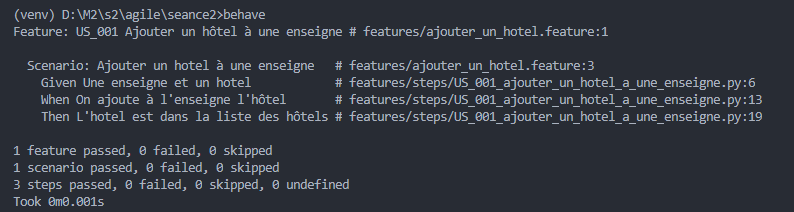
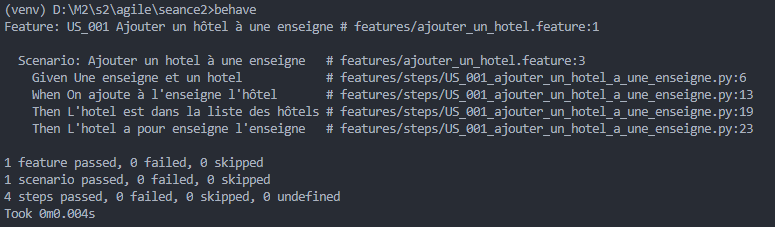
Updated one functionnal test

Changed region(s): [[0.0, 0.2264, 0.991, 0.5943], [0.0, 0.0, 0.7742, 0.1981], [0.0, 0.6792, 0.4645, 0.9906]]

diff --git a/features/steps/US_001_ajouter_un_hotel_a_une_enseigne.py b/features/steps/US_001_ajouter_un_hotel_a_une_enseigne.py
@@ -19,4 +19,8 @@ def on_ajoute_a_l_enseigne_l_hotel(context):
 @then('L\'hotel est dans la liste des hôtels')
 def l_hotel_est_dans_la_liste_des_hotels(context):
     assert context.enseigne.hotels.pop() == context.hotel
+
+@then('L\'hotel a pour enseigne l\'enseigne')
+def l_hotel_a_pour_enseigne_l_enseigne(context):
+    assert context.hotel.enseigne == context.enseigne
     
